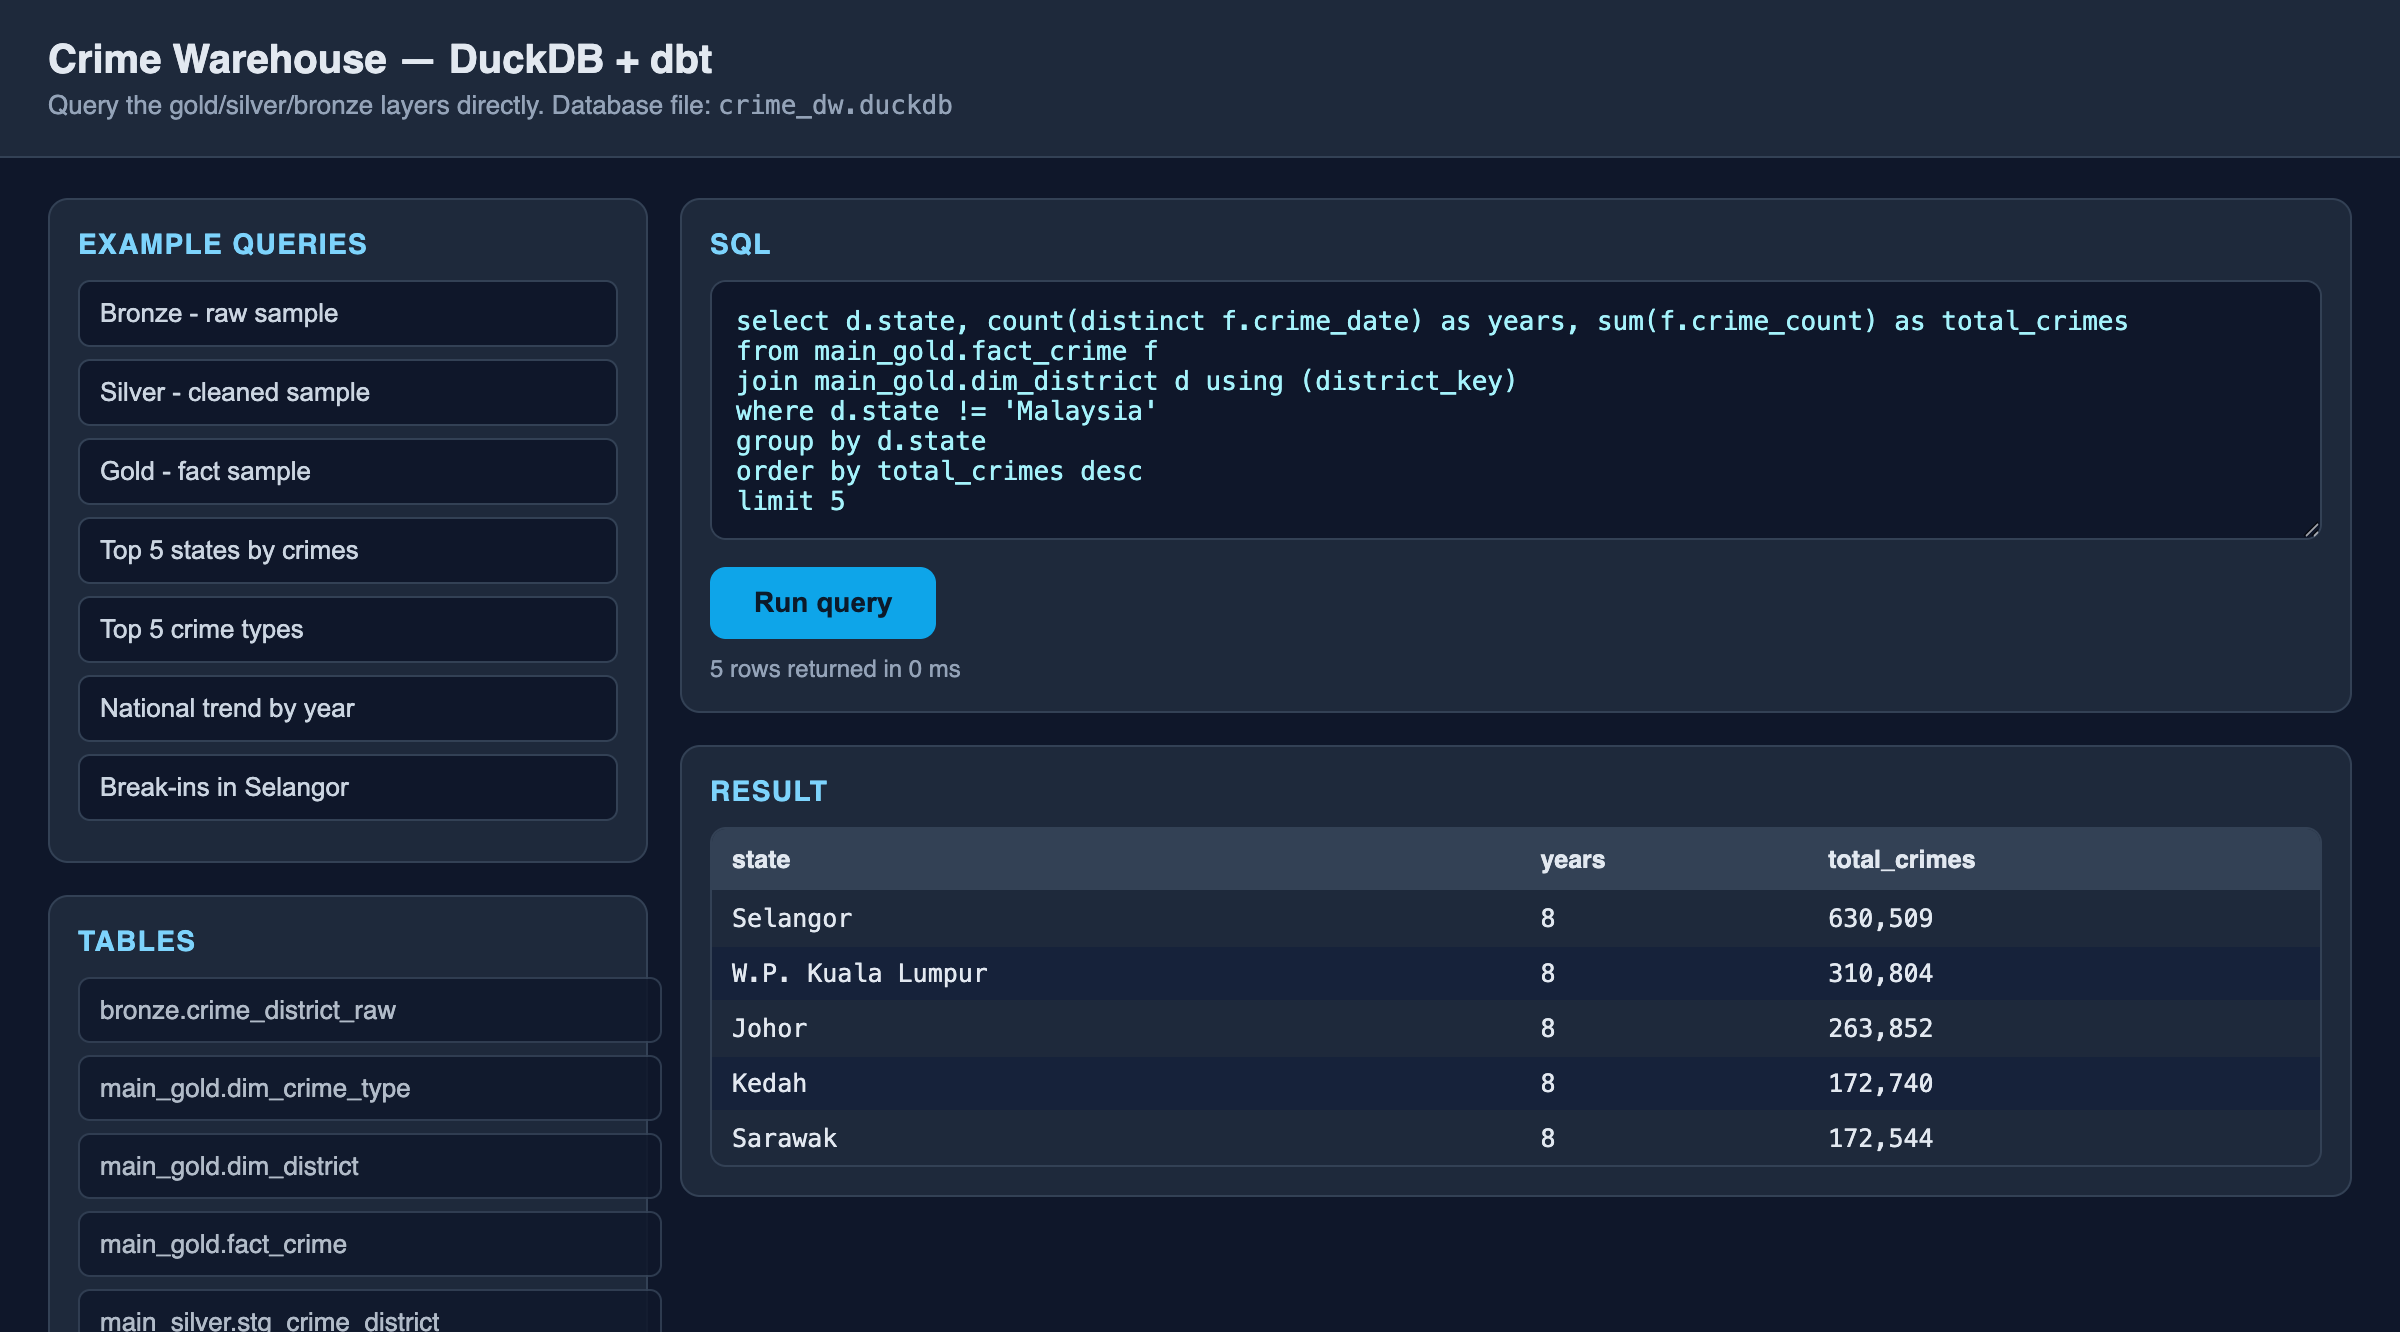
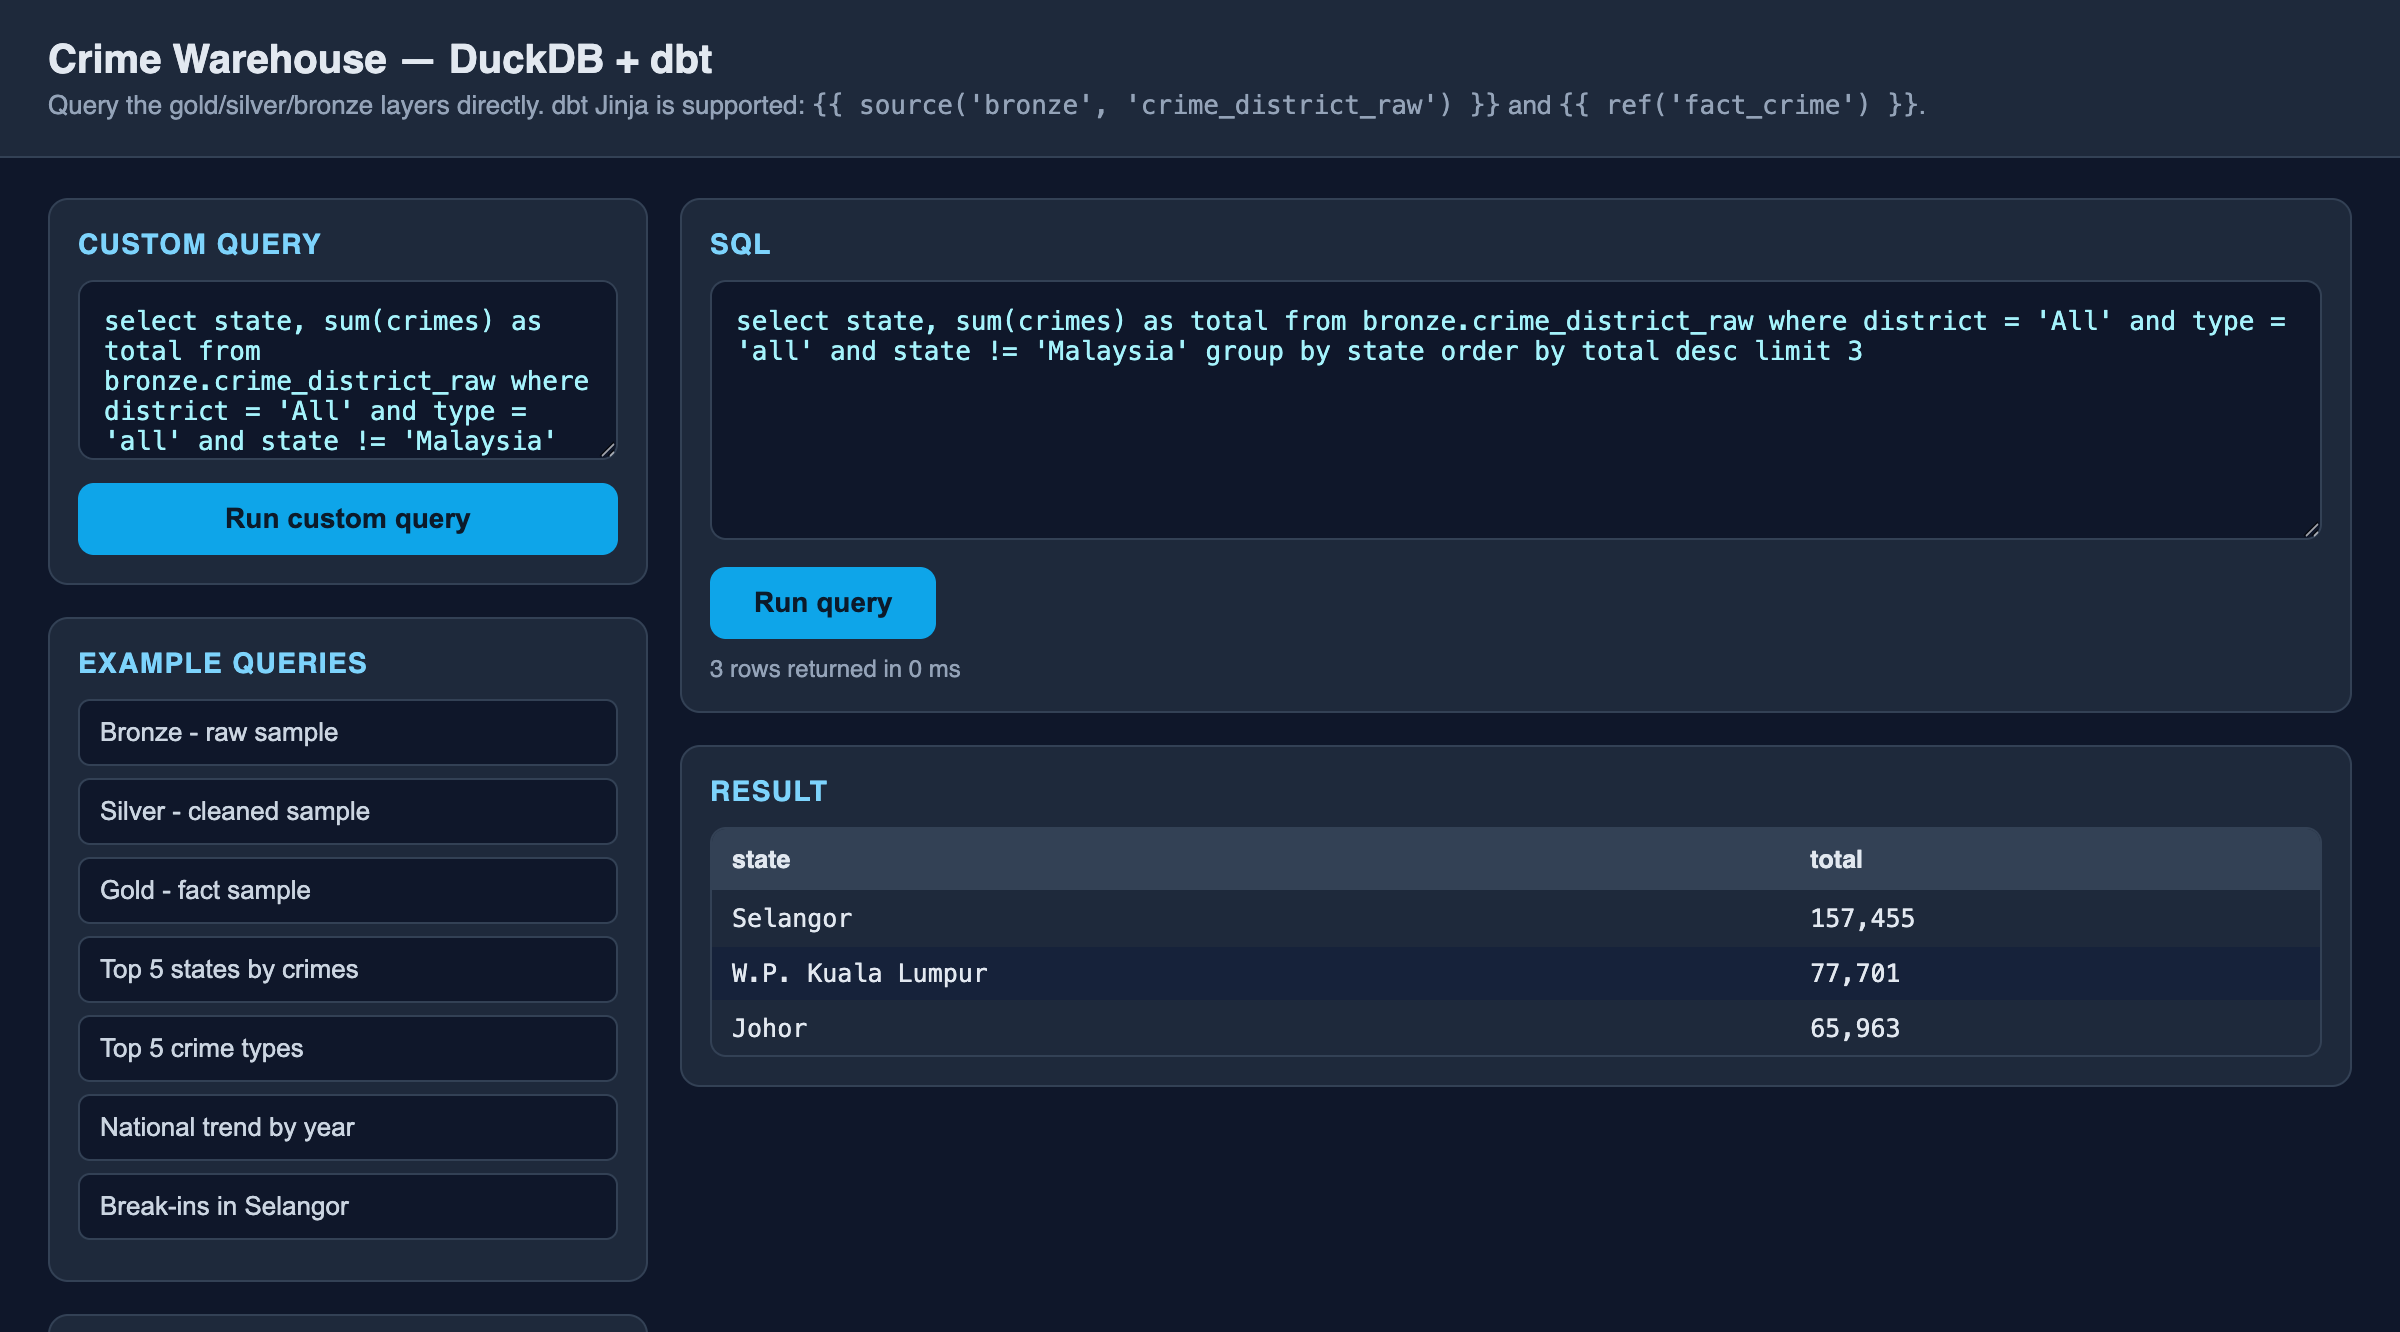
Add empty custom query box above example queries for live demo

diff --git a/crime_dw/scripts/app.py b/crime_dw/scripts/app.py
@@ -89,6 +89,11 @@ PAGE = """
 <div class="wrap">
   <div class="col-left">
     <div class="card">
+      <h2>Custom query</h2>
+      <textarea id="custom" placeholder="select * from bronze.crime_district_raw limit 5" style="min-height:90px"></textarea>
+      <button class="btn" style="width:100%;margin-top:8px" onclick="runCustom()">Run custom query</button>
+    </div>
+    <div class="card">
       <h2>Example queries</h2>
       <div id="examples"></div>
     </div>
@@ -126,6 +131,17 @@ function fmt(v) {
   if (v === null || v === undefined) return '<i style="color:#64748b">NULL</i>';
   if (typeof v === 'number') return v.toLocaleString();
   return String(v).replace(/</g, '&lt;');
+}
+
+async function runCustom() {
+  const sql = document.getElementById('custom').value.trim();
+  if (!sql) {
+    const out = document.getElementById('result');
+    out.innerHTML = '<div class="err">Type a query first.</div>';
+    return;
+  }
+  document.getElementById('sql').value = sql;
+  await run();
 }
 
 async function run() {
